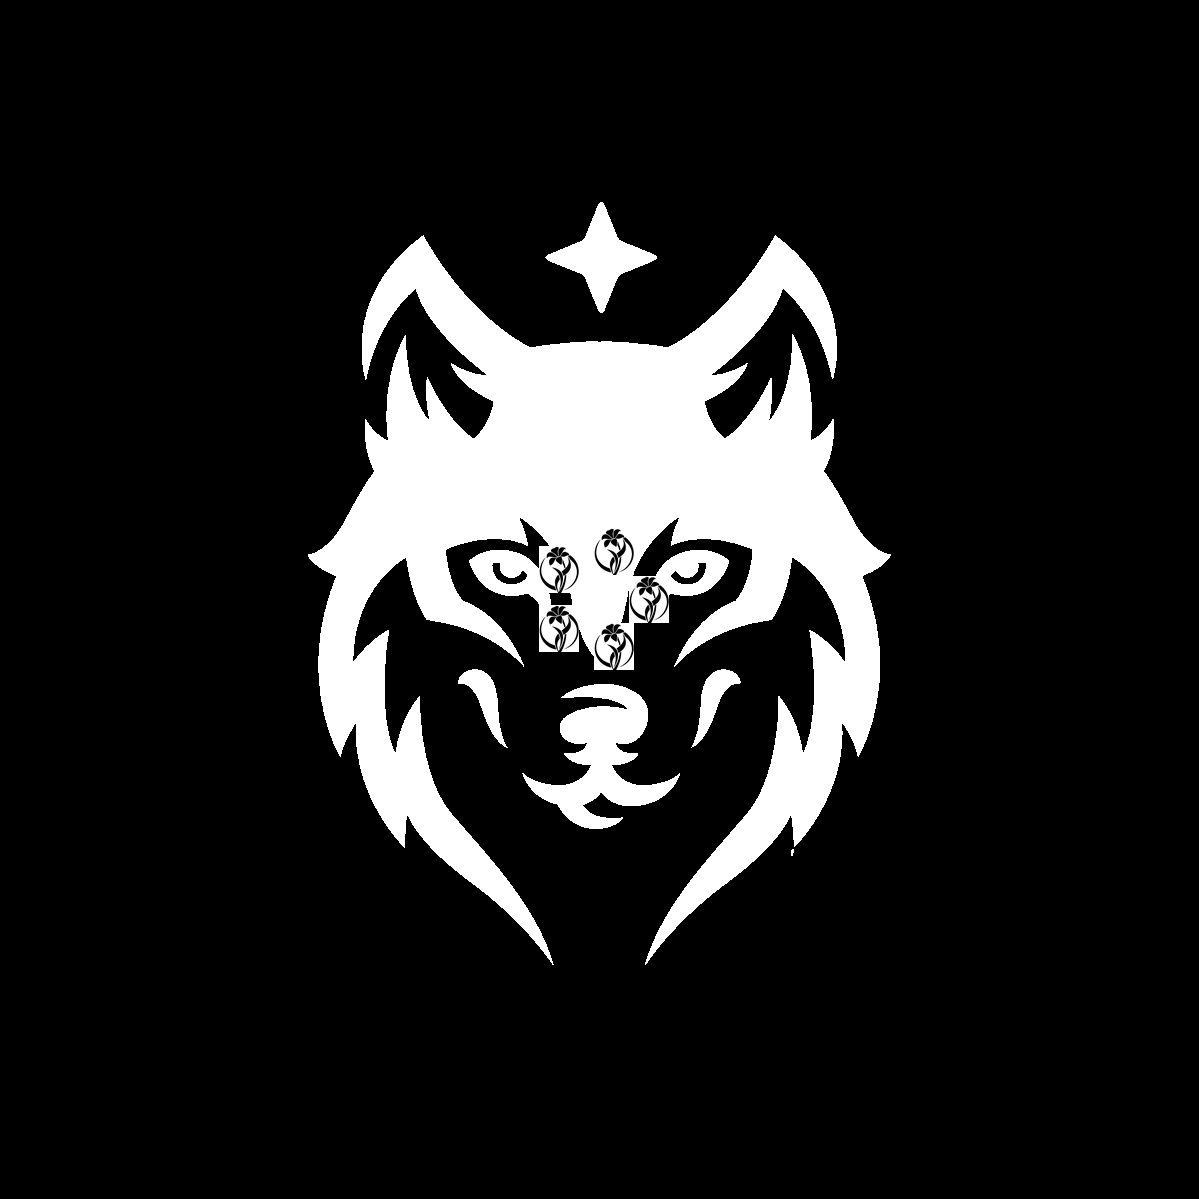
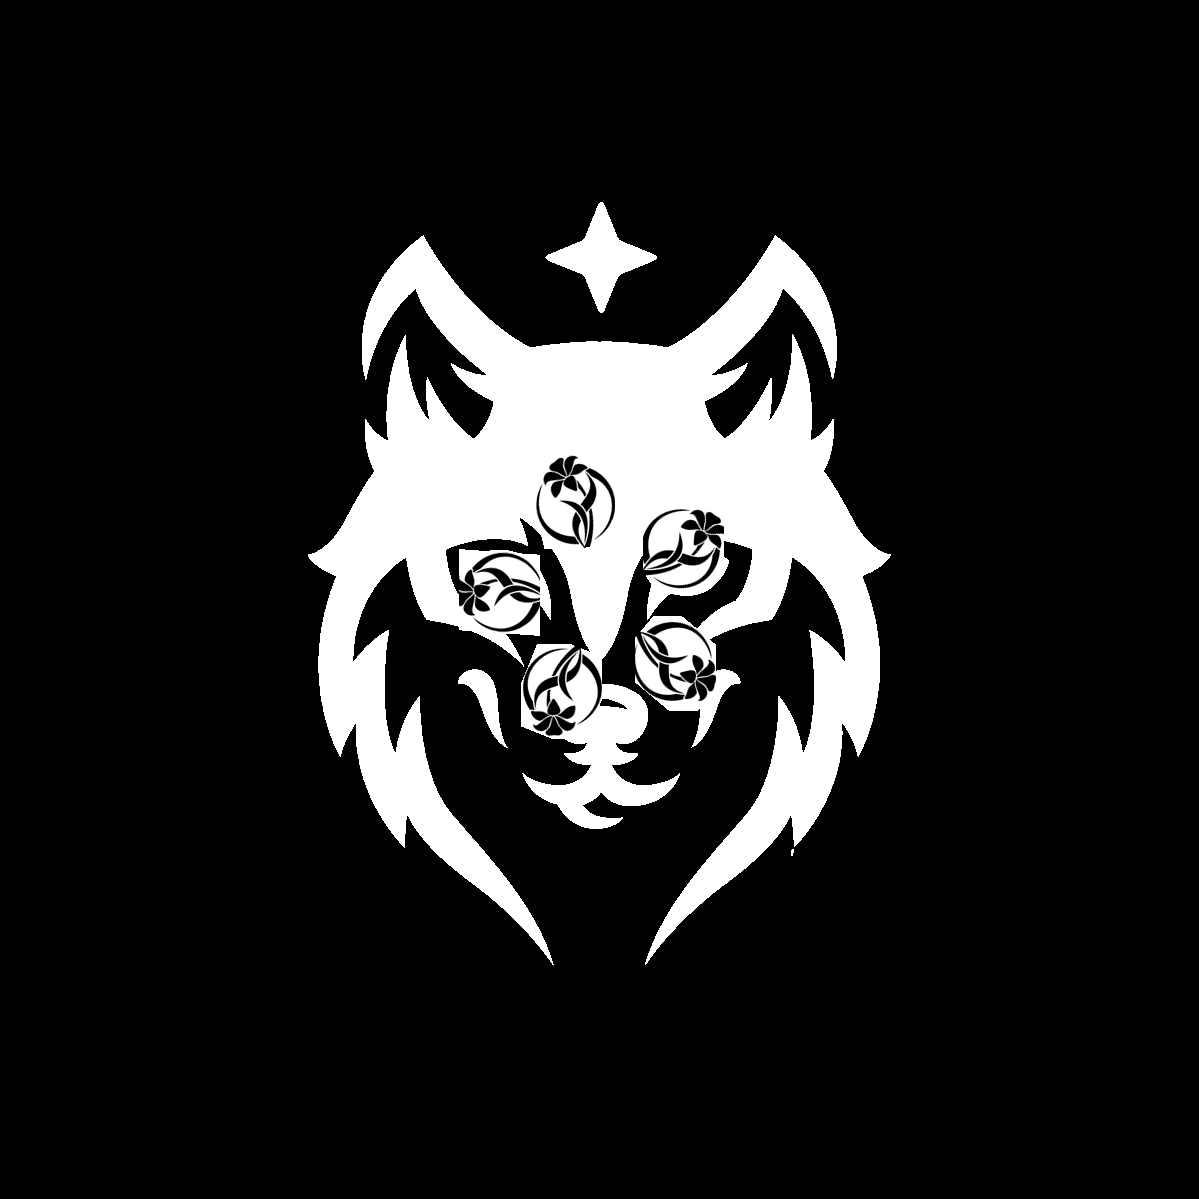
WIP

Changed region(s): [[0.3703, 0.3703, 0.6172, 0.6172]]

diff --git a/polar_array.py b/polar_array.py
@@ -4,7 +4,7 @@ import argparse
 import math
 from PIL import Image
 
-def create_polar_array(target_image_path, overlay_image_path, count, offset_rotation, radius, lookat_center, input_scale):
+def create_polar_array(target_image_path, overlay_image_path, count, offset_rotation, radius, lookat_center, input_scale, input_offset_rotation):
     # Load the target image
     target_image = Image.open(target_image_path).convert('RGBA')
     target_width, target_height = target_image.size
@@ -18,7 +18,7 @@ def create_polar_array(target_image_path, overlay_image_path, count, offset_rota
     # Resize the overlay image based on input_scale
     if input_scale < 1:
         new_size = (int(overlay_image.width * input_scale), int(overlay_image.height * input_scale))
-        overlay_image = overlay_image.resize(new_size, Image.Resampling.LANCZOS)
+        overlay_image = overlay_image.resize(new_size, Image.BICUBIC)
     
     overlay_width, overlay_height = overlay_image.size
     
@@ -35,8 +35,16 @@ def create_polar_array(target_image_path, overlay_image_path, count, offset_rota
         x = center_x + radius * math.cos(angle_rad) - overlay_width / 2
         y = center_y + radius * math.sin(angle_rad) - overlay_height / 2
         
-        # Paste the overlay image onto the result image
-        result_image.paste(overlay_image, (int(x), int(y)), overlay_image)
+        if lookat_center:
+            # Apply input offset rotation to the overlay image
+            rotation_angle = -angle - input_offset_rotation
+            rotated_overlay = overlay_image.rotate(rotation_angle, resample=Image.BICUBIC)
+        else:
+            # No rotation applied
+            rotated_overlay = overlay_image
+        
+        # Paste the rotated overlay image onto the result image
+        result_image.paste(rotated_overlay, (int(x), int(y)), rotated_overlay)
 
     # Save the result image
     result_image.save(target_image_path)
@@ -48,8 +56,9 @@ if __name__ == "__main__":
     parser.add_argument("--count", type=int, default=2, help="Number of overlay images in the polar array.")
     parser.add_argument("--offset-rotation", type=float, default=0, help="Offset rotation in degrees for the polar array.")
     parser.add_argument("--radius", type=int, default=50, help="Radius of the polar array.")
-    parser.add_argument("--no-lookat-center", default=False, action='store_true', help="Do not center the array on the new image's center.")
+    parser.add_argument("--no-lookat-center", action='store_true', help="Deactivate default behavior of rotating images towards the center of the array.")
     parser.add_argument("--input-scale", type=float, default=1.0, help="Scale factor for the overlay image between 0 and 1.")
+    parser.add_argument("--input-offset-rotation", type=float, default=0, help="Additional rotation applied to the overlay images before placing them in the array.")
 
     args = parser.parse_args()
     
@@ -65,5 +74,6 @@ if __name__ == "__main__":
         offset_rotation=args.offset_rotation,
         radius=args.radius,
         lookat_center=not args.no_lookat_center,
-        input_scale=args.input_scale
+        input_scale=args.input_scale,
+        input_offset_rotation=args.input_offset_rotation
     )
